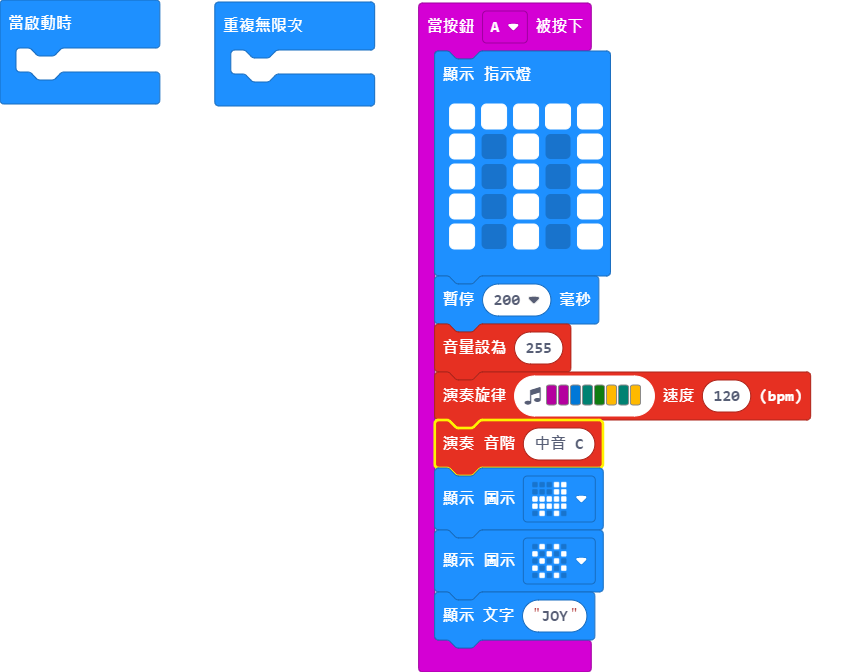
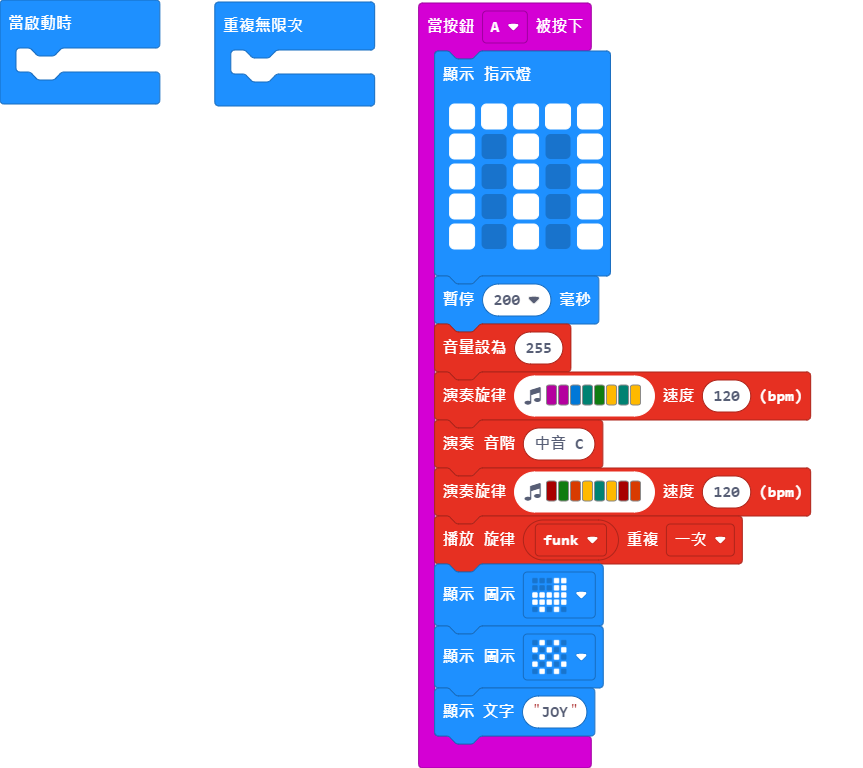
Update main.blocks, main.ts

Changed region(s): [[0.482, 0.0, 0.9641, 0.9688], [0.241, 0.0, 0.4519, 0.1562], [0.0, 0.0, 0.2109, 0.1562]]

diff --git a/main.ts b/main.ts
@@ -10,6 +10,8 @@ input.onButtonPressed(Button.A, function () {
     music.setVolume(255)
     music.playMelody("C C E F G A F A ", 120)
     music.ringTone(262)
+    music.playMelody("C5 G B A F A C5 B ", 120)
+    music.startMelody(music.builtInMelody(Melodies.Funk), MelodyOptions.Once)
     basic.showIcon(IconNames.Rollerskate)
     basic.showIcon(IconNames.Chessboard)
     basic.showString("JOY")
